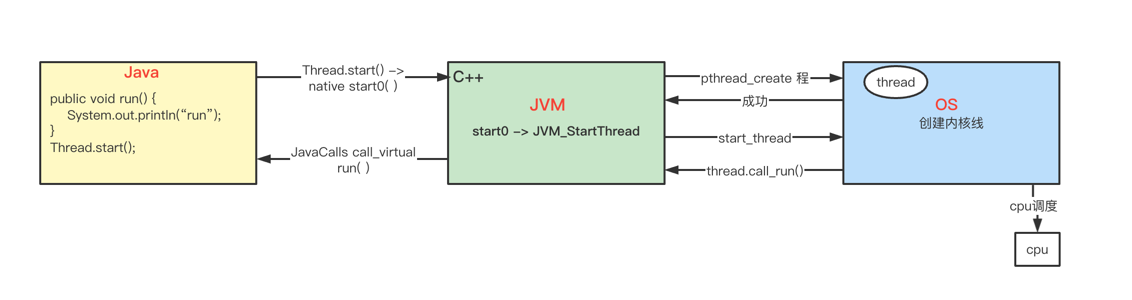
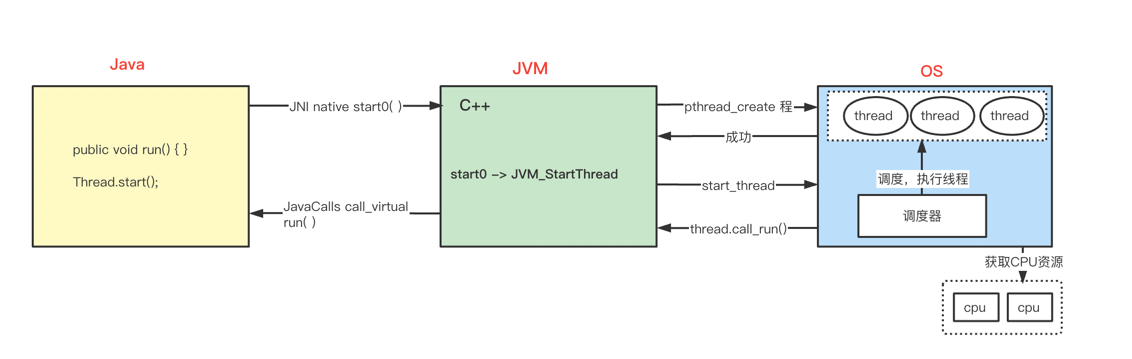
线程

Changed region(s): [[0.0, 0.15, 0.9585, 0.9], [0.4638, 0.33, 0.5256, 0.39]]

diff --git a/_posts/2022-10-15-thread.md b/_posts/2022-10-15-thread.md
@@ -12,7 +12,8 @@ keywords: 线程,java线程,线程中断
 在 Java19之前，线程是 Java运行的最小单元，线程作为 Java的核心功能之一，在 Java的发展史上起着举足轻重的作用，因此，今天我们就来聊聊
 Java线程的相关知识。
 
-> 申明：本文基于 jdk-11.0.15，操作系统基于 Linux，JVM 基于hotspot源码，[hotspot 源码下载地址](https://github.com/openjdk/jdk)
+> 申明：本文基于 jdk-11.0.15，操作系统基于 Linux，JVM
+> 基于hotspot源码，[hotspot 源码下载地址](https://github.com/openjdk/jdk)
 
 本文会从 线程定义、线程创建、线程状态、线程工作原理、线程组、线程优先级、线程通信 7个部分对线程进行全面分析。
 
@@ -33,14 +34,14 @@ thread）称为线程。
 因此，在 Java中，线程是指程序中的执行线程，每个线程都有一个优先级，高优先级的线程执行要优先于低优先级线程，在
 Java虚拟机中，允许应用程序同时运行多个执行线程，当 JVM启动时，通常会维护一个 非守护线程（main方法对应的线程）。
 
-
 ## 线程创建方式
 
 在 Java中，创建线程有 3种方式：继承 Thread类、实现 Runnable接口、Callable/Future。
 
 ### 继承 Thread类
 
-创建线程的第一种方法是将类声明为 Thread的子类。该子类需要重写 Thread类的 run()方法，然后创建子类的实例，最后调用实例的 start()方法启动线程。示例代码如下：
+创建线程的第一种方法是将类声明为 Thread的子类。该子类需要重写 Thread类的 run()方法，然后创建子类的实例，最后调用实例的
+start()方法启动线程。示例代码如下：
 
 ```java
 public class MyThread extends Thread {
@@ -65,7 +66,8 @@ MyThread extends Thread!
 
 ### 实现 Runnable接口
 
-创建线程的第二种方法是声明一个实现 Runnable接口的类。然后在类中实现 run()方法，并且将该类的实例作为参数传递给一个线程类，最后，调用Thread.start()启动。示例代码如下：
+创建线程的第二种方法是声明一个实现 Runnable接口的类。然后在类中实现 run()
+方法，并且将该类的实例作为参数传递给一个线程类，最后，调用Thread.start()启动。示例代码如下：
 
 ```java
 public class MyRunnable implements Runnable {
@@ -91,7 +93,9 @@ MyRunnable implements Runnable!
 
 ### Callable/Future
 
-创建线程的第三种方法是实现 Callable接口，然后通过 Future获取结果值。一般来说 Callable需要配合线程池工具类 ExecutorService来使用，如下代码，定义一个 MyTask类，然后让该类去实现 Callable接口，并且实现 call()方法，最后通过 executor.submit()提交任务。
+创建线程的第三种方法是实现 Callable接口，然后通过 Future获取结果值。一般来说 Callable需要配合线程池工具类
+ExecutorService来使用，如下代码，定义一个 MyTask类，然后让该类去实现 Callable接口，并且实现 call()方法，最后通过
+executor.submit()提交任务。
 
 ```java
 public class MyThread implements Callable {
@@ -133,7 +137,6 @@ MyThread implements Callable!
 ![img.png](https://yuanjava.cn/assets/md/java/futuretask.png)
 
 通过源码可以看出，get()是一个阻塞方法，等待直到处理完成返回结果或者等待超时。
-
 
 **Thread、Runnable、Callable/Future 比较**
 
@@ -247,11 +250,9 @@ public class ThreadBlocked extends Thread {
 
 TERMINATED：已终止状态，代表线程已完成执行。
 
-
 通过上文的分析，我们可以把 6种状态及其转换关系总结如下图：
 
 ![img.png](https://yuanjava.cn/assets/md/java/thread-state.png)
-
 
 ## 线程的工作原理
 
@@ -266,31 +267,33 @@ TERMINATED：已终止状态，代表线程已完成执行。
 ![img.png](https://yuanjava.cn/assets/md/java/thread-code2.png)
 
 通过 Runnable源码可以看出，Runnable是一个函数式接口，内部只有一个抽象方法 run()，任何实现该接口的线程类都必须实现 run()
-方法，而 Thread源码显示，Thread本身实现了 Runnable接口，Thread.start()最终调用本地方法 native start0()，也就是说 start0()方法是在 JVM中实现的，因此继续查阅 JVM的源码，看看 start0()方法到底做了什么。
-
+方法，而 Thread源码显示，Thread本身实现了 Runnable接口，Thread.start()最终调用本地方法 native start0()，也就是说 start0()
+方法是在 JVM中实现的，因此继续查阅 JVM的源码，看看 start0()方法到底做了什么。
 
 从 Thread.c源码可以看出，start0()会映射到 JVM中的 JVM_StartThread方法。
 ![img.png](https://yuanjava.cn/assets/md/java/jvm-start0.png)
 
 在 jvm.cpp源码中，JVM_StartThread方法实现逻辑为：
 
-1. 判断 Java线程是否已经启动，如果启动过，则抛异常；
+1. 判断 Java线程是否已经启动，如果启动过，则抛异常，所以 start()不能重复调用；
 2. 如果 Java线程没有启动过，则通过 new JavaThread()创建 Java线程；
 3. 调用 Thread::start(native_thread); 启动步骤2创建的线程；
 
 ![img.png](https://yuanjava.cn/assets/md/java/jvm-start0-thread.png)
 
-在 javaThread.cpp源码中，new JavaThread()创建线程是通过 os::create_thread(this, thr_type, stack_sz)方法，创建 Java线程对应的内核线程。因此需要进入 os::create_thread()方法
+在 javaThread.cpp源码中，new JavaThread()创建线程是通过 os::create_thread(this, thr_type, stack_sz)方法，创建
+Java线程对应的内核线程。因此需要进入 os::create_thread()方法
 
 ![img.png](https://yuanjava.cn/assets/md/java/jvm-javathread.png)
 
-在 os_linux.cpp源码中，os::create_thread() 是利用 pthread_create()来创建线程，共4个参数，第三个参数 thread_native_entry便是新线程运行的初始地址（定义在 os_bsd.cpp中的一个方法指针），第四个参数 thread即thread_native_entry的参数：
+在 os_linux.cpp源码中，os::create_thread() 是利用 pthread_create()来创建线程，共4个参数，第三个参数
+thread_native_entry便是新线程运行的初始地址（定义在 os_bsd.cpp中的一个方法指针），第四个参数 thread即thread_native_entry的参数：
 
 ![img.png](https://yuanjava.cn/assets/md/java/jvm-pthread.png)
 
-到处，线程已经创建完成，接下来就是启动线程，调用 Thread::start(native_thread)，start()方法会调用平台启动线程的方法: os::start_thread(thread);，最终会调用 thread.cpp文件中的 JavaThread::run()方法
+到处，线程已经创建完成，接下来就是启动线程，调用 Thread::start(native_thread)，start()方法会调用平台启动线程的方法: os::
+start_thread(thread);，最终会调用 thread.cpp文件中的 JavaThread::run()方法
 ![img.png](https://yuanjava.cn/assets/md/java/jvm-thread-start.png)
-
 
 在 thread.cpp源码中，thread->call_run() 调用了 thread_main_inner()。
 ![img.png](https://yuanjava.cn/assets/md/java/jvm-thread.png)
@@ -306,13 +309,14 @@ TERMINATED：已终止状态，代表线程已完成执行。
 
 ![img.png](https://yuanjava.cn/assets/md/java/thread-start.png)
 
-那么，线程是如何停止的呢？
 
+那么，线程是如何停止的呢？
 
 ### 停止线程
 
-
-想必大家很自然就会想到 Thread.stop()或者 Thread.suspend()，不过，很遗憾的是，Thread.stop() 和 Thread.suspend() 从JDK 1.2就已经被废弃了，主要是因为方法本质上是不安全的，使用它来停止线程会导致所有已锁定的监视器都被解锁，因此推荐使用 Thread.interrupt()来中断线程。
+想必大家很自然就会想到 Thread.stop()或者 Thread.suspend()，不过，很遗憾的是，Thread.stop() 和 Thread.suspend() 从JDK
+1.2就已经被废弃了，主要是因为方法本质上是不安全的，使用它来停止线程会导致所有已锁定的监视器都被解锁，因此推荐使用
+Thread.interrupt()来中断线程。
 
 interrupt()方法两个重要作用：
 
@@ -324,45 +328,81 @@ interrupt()方法两个重要作用：
 
 ```java
 public class MyThread extends Thread {
-    public static void main(String[] args) {
-        MyThread thread = new MyThread();
-        thread.start();
-        // 调用interrupt
-	thread.interrupt();
-    }
+  public static void main(String[] args) {
+    MyThread thread = new MyThread();
+    thread.start();
+    // 调用interrupt
+    thread.interrupt();
+  }
 
-    @Override
-    public void run() {
-        try {
-            TimeUnit.SECONDS.sleep(300);
+  @Override
+  public void run() {
+    try {
+      TimeUnit.SECONDS.sleep(300);
 
-        } catch (InterruptedException e) {
-            e.printStackTrace();
-        }
+    } catch (InterruptedException e) {
+      e.printStackTrace();
     }
+  }
 }
 ```
 
-接下来分析 Thread.interrupt()是如何中断线程的。
+执行上述代码，可以发现线程被正常中断，catch中会打印出以下堆栈信息：java.lang.InterruptedException: sleep interrupted
 
-在 Thread源码中，interrupt() 最终调用了 native interrupt0()，从而转向了 JVM的实现
+那么，Thread.interrupt() 是如何中断线程的？
+
+我们从 Thread.interrupt() 进行分析，发现 interrupt()调用了 native interrupt0()，从而转向了 JVM的实现，interrupt()源码如下：
 
 ![img.png](https://yuanjava.cn/assets/md/java/java-interrupt.png)
 
-在 JVM Thread.c源码中，我们可以看到 interrupt0()映射到 JVM_Interrupt方法
+在 JVM 的 Thread.c 源码中，我们可以看到 interrupt0()映射到 JVM_Interrupt方法，源码截图如下：
 
 ![img.png](https://yuanjava.cn/assets/md/java/jvm-interrupt0.png)
 
-在 jvm.cpp源码中 JVM_Interrupt实现为，判断线程是否存活，如果存活，则调用 JavaThread.interrupt()进行线程中断操作：
+接着我们进入 JVM_Interrupt 方法的源码类jvm.cpp， 在 JVM_Interrupt中会判断线程是否存活，如果存活，才会调用 JavaThread.interrupt()方法进行线程中断操作，否则直接结束方法，源码截图如下：
 
 ![img.png](https://yuanjava.cn/assets/md/java/JVM_Interrupt.png)
 
-在 javaThread.cpp 中，interrupt()的实现逻辑如下：
+最后，我们进入 javaThread.cpp ，interrupt() 方法针对线程不同的状态，会采取相应的方法来进行中断，具体实现逻辑如下图：
 
 ![img.png](https://yuanjava.cn/assets/md/java/javaThread-interrupt.png)
 
+为什么interrupt()方法需要使用 unpark()呢？这是因为在演示代码中使用的是Thread.sleep()方法进行线程睡眠，而 sleep()最终会调用park 函数，源码截图如下：
 
-Thread 其他一些重要方法：
+![img.png](https://yuanjava.cn/assets/md/java/thread-sleep.png)
+
+![img.png](https://yuanjava.cn/assets/md/java/javathread-sleep.png)
+
+所以 interrupt()需要使用unpark()唤醒睡眠的线程，park()方法其实是调用系统层面的锁挂起线程，而unpark()方法调用系统层面的唤醒条件变量达到唤醒线程的目的，Sleep()方法检测到线程中断标识，抛出 sleep interrupted异常。
+
+![img.png](../assets/md/java/jvm-sleep.png)
+
+### start() 和 run() 的比较
+
+```java
+public class MyThread extends Thread {
+
+  @Override
+  public void run() {
+    System.out.println("ThreadName:" + Thread.currentThread().getName());
+  }
+
+  public static void main(String[] args) {
+    MyThread thread = new MyThread();
+    thread.run();   // 输出 ThreadName:main
+    thread.run();   // 输出 ThreadName:main
+    thread.start(); // 输出 ThreadName:Thread-0
+    thread.start(); // 抛出 java.lang.IllegalThreadStateException 异常
+  }
+}
+```
+通过上面的执行结果我们可以得出：
+- start(): 会启动一个新线程，新线程会执行相应的 run()方法；不能被重复调用，JVM源码会判断线程是否已经启动过。
+- run() : 直接调用实例的 run()方法，此时 run()就是一个普通方法，不会启动一个新线程，而是直接在当前线程中执行；可重复调用。
+
+
+
+**Thread 其他一些重要方法**
 
 | 方法                       | 说明                        |
 |--------------------------|---------------------------|
@@ -374,6 +414,15 @@ Thread 其他一些重要方法：
 | void setDaemon() | 用将线程设置为守护线程或用户线程，需在线程启动前设置 |
 
 对照 JVM源码可以发现，在 Thread类中的很多方法最终都会映射到 JVM内部的 C++方法，甚至还需要和 OS操作系统进行交互。
+
+### 总结
+
+通过上文对线程运行原理的解析，我们可以总结：
+
+- 线程是由操作系统创建并调度的资源，然后通过 JavaCalls模块，最终回调 Java线程类的 run()方法，实现业务逻辑；
+- 操作系统调度线程需要获取 CPU等资源，因此线程切换会耗费 CPU时间；
+- Java线程类中的很多方法最终都是直接映射成JVM的C++方法，最终到操作系统内核方法；
+
 
 ## Java线程组
 
@@ -402,10 +451,11 @@ public class MyThread extends Thread {
 上述示例，我们并没有给线程示例设置过线程组，那么，线程组是在什么时候设置的呢？
 
 我们先看看 Thread类在创建线程实例时做了什么，源码如下：
+
 ```java
 public class Thread implements Runnable {
 
-    // 无参构造器 创建线程
+  // 无参构造器 创建线程
   public Thread() {
     this(null, null, "Thread-" + nextThreadNum(), 0);
   }
@@ -482,11 +532,14 @@ public class Thread implements Runnable {
   }
 }
 ```
+
 通过Thread源码可以看出，如果创建线程时未指定线程组，那么会采用父类的线层组，接着就来看下 ThreadGroup线程组源码类：
 
 ![img.png](https://yuanjava.cn//assets/md/java/thread-group.png)
 
-通过源码的描述可以得知：ThreadGroup（线程组）简单来说就是线程的集合，它是一个树形结构，并呈父子关系，除了 system线程组（只有子线程组），一个线程组既可以有父线程组，同时也可以有子线程组。但是，线程只能访问本线程组的信息，不能访问其父类或者其他线程组的信息。在 Java中线程组的树状结构如下图：
+通过源码的描述可以得知：ThreadGroup（线程组）简单来说就是线程的集合，它是一个树形结构，并呈父子关系，除了
+system线程组（只有子线程组），一个线程组既可以有父线程组，同时也可以有子线程组。但是，线程只能访问本线程组的信息，不能访问其父类或者其他线程组的信息。在
+Java中线程组的树状结构如下图：
 
 ![img.png](https://yuanjava.cn//assets/md/java/thread-group-tree.png)
 
@@ -495,7 +548,6 @@ public class Thread implements Runnable {
 - sub线程组，它是 main线程组的子线程组，是应用程序创建的线程组；
 
 所以，ThreadGroup线程组是一个标准的向下引用的树状结构，这样设计的目的是防止"上级"线程被"下级"线程引用而无法有效地被 GC回收。
-
 
 ThreadGroup其他一些重要方法：
 
@@ -509,29 +561,29 @@ ThreadGroup其他一些重要方法：
 | void suspend()                                  | 挂起线程组中的所有线程                |
 | ThreadLocal.ThreadLocalMap threadLocals     | 存放线程变量副本，和 ThreadLocal配合使用 |
 
-
 ## Java线程优先级
 
-在 Thread类中，关于线程优先级的源码如下，通过源码可以看出，线程的优先级在 1~10，Java 默认的线程优先级为 5，可以通过 setPriority()进行优先级的设置，通常情况下，高优先级的线程会比低优先级的线程更优先执行，但是最终执行的顺序还是由操作系统的调度器来决定。
+在 Thread类中，关于线程优先级的源码如下，通过源码可以看出，线程的优先级在 1~10，Java 默认的线程优先级为 5，可以通过
+setPriority()进行优先级的设置，通常情况下，高优先级的线程会比低优先级的线程更优先执行，但是最终执行的顺序还是由操作系统的调度器来决定。
 所以说，Java中的线程的优先级来是一个参考值，它只是给操作系统一个建议，最终的调用顺序，是由操作系统的线程调度算法决定的。
 
 ```java
 public class Thread implements Runnable {
-    private int priority;
-    /**
-     * The minimum priority that a thread can have.
-     */
-    public static final int MIN_PRIORITY = 1;
+  private int priority;
+  /**
+   * The minimum priority that a thread can have.
+   */
+  public static final int MIN_PRIORITY = 1;
 
-    /**
-     * The default priority that is assigned to a thread.
-     */
-    public static final int NORM_PRIORITY = 5;
+  /**
+   * The default priority that is assigned to a thread.
+   */
+  public static final int NORM_PRIORITY = 5;
 
-    /**
-     * The maximum priority that a thread can have.
-     */
-    public static final int MAX_PRIORITY = 10;
+  /**
+   * The maximum priority that a thread can have.
+   */
+  public static final int MAX_PRIORITY = 10;
 }
 ```
 
@@ -553,16 +605,14 @@ synchronized关键字通过向对象施加 Monitor锁，从而确保同一时间
 
 线程之间通过明确的发送消息来显式进行通信，在 Java中典型的消息传递方式就是 wait()、notify()、notifyAll()。
 
-当线程A 调用了对象 Object的 wait()方法后，会释放 Object的 monitor所有权，然后进入等待状态，当另外一个线程B调用了同一个对象的 notify()或者notifyAll()方法，线程A 收到通知后会继续抢占运行需要的资源，因此，线程A，B就通过消息传递的方式实现了通信。
-
-
+当线程A 调用了对象 Object的 wait()方法后，会释放 Object的 monitor所有权，然后进入等待状态，当另外一个线程B调用了同一个对象的
+notify()或者notifyAll()方法，线程A 收到通知后会继续抢占运行需要的资源，因此，线程A，B就通过消息传递的方式实现了通信。
 
 ## 总结
 
-到此，我们对线程进行了全面的分析，线程是 Java中非常核心，也很容易被忽略的一个知识点，它更是多线程的一个基础，如果你有充足的时间，可以下载 JVM源码，对照本文给的源码查看线索，
+到此，我们对线程进行了全面的分析，线程是 Java中非常核心，也很容易被忽略的一个知识点，它更是多线程的一个基础，如果你有充足的时间，可以下载
+JVM源码，对照本文给的源码查看线索，
 从 JVM和操作系统的角度去了解线程的运行机制，相信投人了就一定会受益匪浅。
-
-
 
 ## 鸣谢
 
